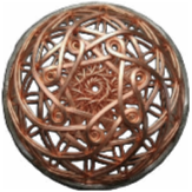
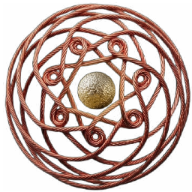
update color

diff --git a/service-worker.js b/service-worker.js
@@ -1,4 +1,4 @@
-const CACHE_VERSION = 'v1.8.5'; // Збільште при зміні статичних файлів!
+const CACHE_VERSION = 'v1.8.6'; // Збільште при зміні статичних файлів!
 const STATIC_CACHE_NAME = `az-book-static-${CACHE_VERSION}`;
 const IMAGES_CACHE_NAME = `az-book-images-${CACHE_VERSION}`;
 const DATA_CACHE_NAME = `az-book-data-${CACHE_VERSION}`;
